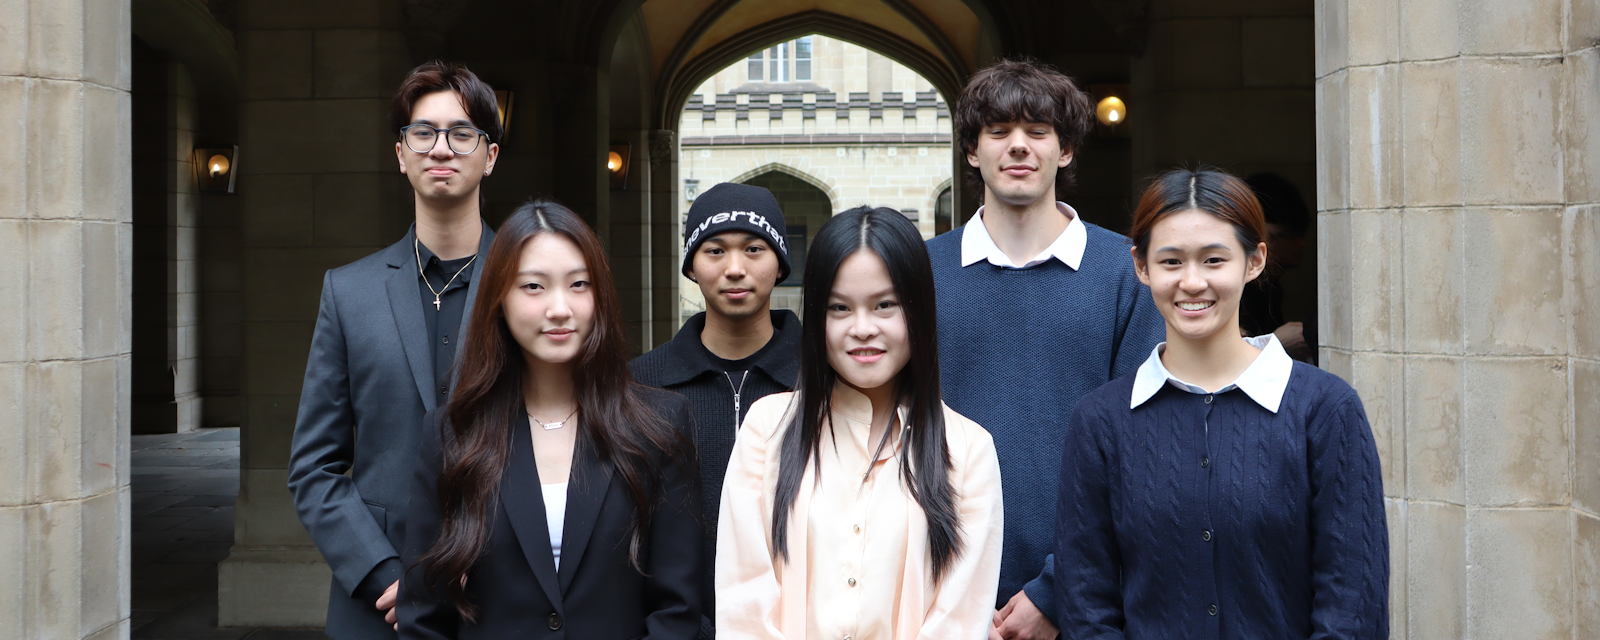
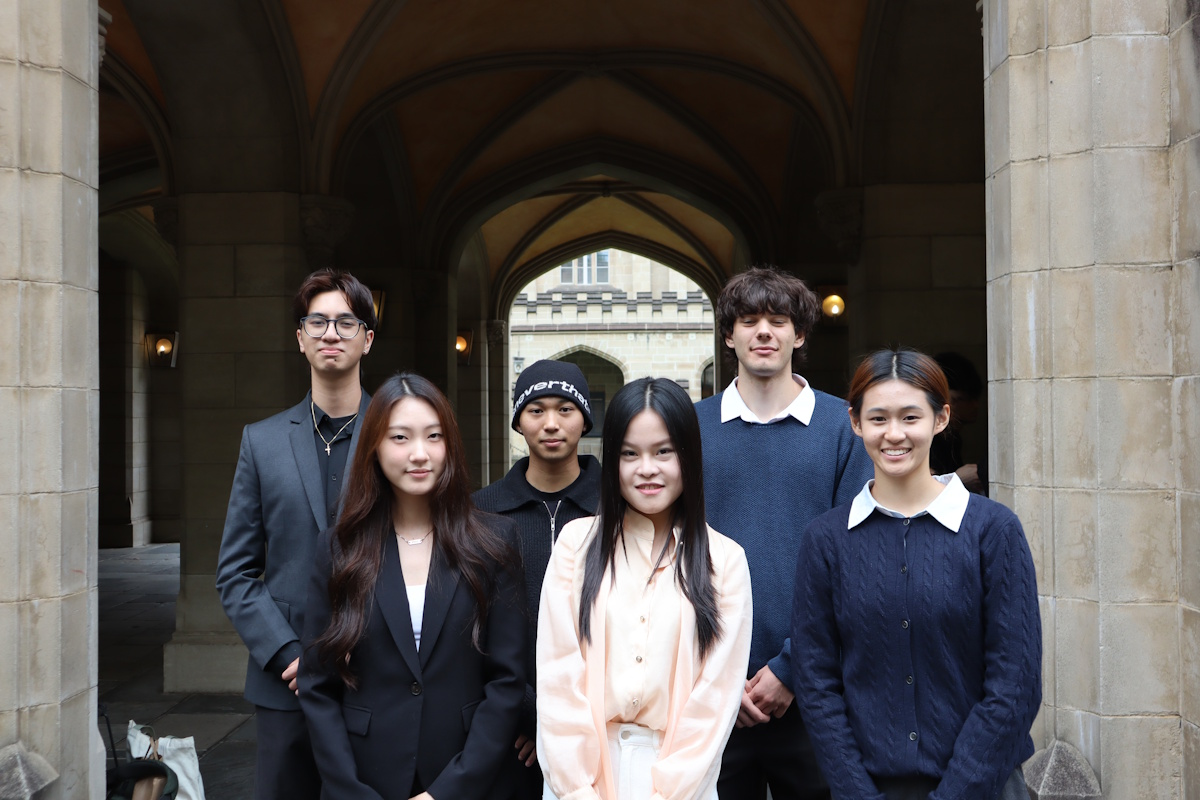
feat: product role changes, improve director logic, changed team photos to use responsive aspect ratios

diff --git a/app/components/committee/data/memberData2026.ts b/app/components/committee/data/memberData2026.ts
@@ -154,32 +154,32 @@ export const teams: Team[] = [
       {
         name: "Ishan Deshpande",
         image: "/people/2026/ishan-deshpande.png",
-        productTeam: "IT",
+        productTeam: "IT Products",
       },
       {
         name: "Nojan Hajjehforoush",
         image: "/people/2026/nojan-hajjehforoush.png",
-        productTeam: "IT",
+        productTeam: "IT Products",
       },
       {
         name: "Shreya Rao",
         image: "/people/2026/shreya-rao.png",
-        productTeam: "IT",
+        productTeam: "IT Products",
       },
       {
         name: "Thomas Chen",
         image: "/people/2026/thomas-chen.png",
-        productTeam: "IT",
+        productTeam: "IT Products",
       },
       {
         name: "Dhruv Verma",
         image: "/people/2026/dhruv-verma.png",
-        productTeam: "IT",
+        productTeam: "IT Products",
       },
       {
         name: "George Stergiopoulos",
         image: "/people/2026/george-stergiopoulos.png",
-        productTeam: "IT",
+        productTeam: "IT Products",
       },
       {
         name: "Ashton Lu",
@@ -195,71 +195,85 @@ export const teams: Team[] = [
         name: "Achal Jhawar",
         image: "/people/2026/achal-jhawar.png",
         productTeam: "C3",
+        productRole: "Developer",
       },
       {
         name: "Andre Phan",
         image: "/people/2026/andre-phan.png",
         productTeam: "C3",
+        productRole: "Developer",
       },
       {
         name: "Emma Xu",
         image: "/people/2026/emma-xu.png",
         productTeam: "C3",
+        productRole: "Developer",
       },
       {
         name: "John Ling",
         image: "/people/2026/john-ling.png",
         productTeam: "C3",
+        productRole: "Developer",
       },
       {
         name: "Michael Tran",
         image: "/people/2026/michael-tran.png",
         productTeam: "C3",
+        productRole: "Developer",
       },
       {
         name: "Nirav Pandey",
         image: "/people/2026/nirav-pandey.png",
         productTeam: "C3",
+        productRole: "Developer",
       },
       {
         name: "Nitesh Palai",
         image: "/people/2026/nitesh-palai.png",
         productTeam: "C3",
+        productRole: "Developer",
       },
       {
         name: "Peter Nguyen",
         image: "/people/2026/peter-nguyen.png",
         productTeam: "C3",
+        productRole: "Developer",
       },
       {
         name: "Rasheed Mohammed",
         image: "/people/2026/rasheed-mohammed.png",
         productTeam: "C3",
+        productRole: "Developer",
       },
       {
         name: "Shahira Jasmine",
         image: "/people/2026/shahira-jasmine.png",
         productTeam: "C3",
+        productRole: "Design",
       },
       {
         name: "Harguan Sehgal",
         image: "/people/2026/harguan-sehgal.png",
         productTeam: "C3",
+        productRole: "Marketing",
       },
       {
         name: "Keyur Gohel",
         image: "/people/2026/keyur-gohel.png",
         productTeam: "C3",
+        productRole: "Partnerships",
       },
       {
         name: "Sri Ram Vishwanath",
         image: "/people/2026/sri-ram-vishwanath.png",
         productTeam: "C3",
+        productRole: "Partnerships",
       },
       {
         name: "Vishesh Manik",
         image: "/people/2026/vishesh-manik.png",
         productTeam: "C3",
+        productRole: "Partnerships",
       },
     ],
   },

diff --git a/app/components/committee/TeamsSection.tsx b/app/components/committee/TeamsSection.tsx
@@ -7,8 +7,15 @@ import FeaturedCard from "./FeaturedCard";
 import MemberListCard from "./MemberListCard";
 import { GroupHeading } from "./GroupHeading";
 import { SectionHeading } from "./SectionHeading";
-import { Director, Team } from "./data/types";
+import { Director, ProductTeams, Team } from "./data/types";
 import { CardGroup } from "./ExecDirectorSection";
+
+const PRODUCT_TEAMS: string[] = [
+  "Products",
+  "AI",
+  "C3",
+  "IT Products",
+] satisfies (ProductTeams | "Products")[];
 
 function isDSCubedAI(team: string | null | undefined) {
   return team === "AI @ DSCubed" || team === "AI@DSCubed";
@@ -23,18 +30,7 @@ function TeamBlock({ team, directors }: { team: Team; directors: Director[] }) {
 
   // Find directors for this team
   const teamDirectors = isProduct
-    ? [
-        ...directors.filter(
-          (d) =>
-            d.team === "Products" ||
-            d.role?.toLowerCase().includes("product director"),
-        ),
-        ...directors.filter(
-          (d) =>
-            ["AI", "C3", "IT"].includes(d.team as string) ||
-            d.role?.toLowerCase().includes("lead"),
-        ),
-      ]
+    ? directors.filter((d) => d.team !== null && PRODUCT_TEAMS.includes(d.team))
     : directors
         .filter(
           (d) =>
@@ -59,7 +55,7 @@ function TeamBlock({ team, directors }: { team: Team; directors: Director[] }) {
         {
           name: "IT",
           role: "IT Officer",
-          members: team.members.filter((m) => m.productTeam === "IT"),
+          members: team.members.filter((m) => m.productTeam === "IT Products"),
         },
         {
           name: "AI",
@@ -81,14 +77,14 @@ function TeamBlock({ team, directors }: { team: Team; directors: Director[] }) {
           initial={{ opacity: 0, y: 30 }}
           animate={inView ? { opacity: 1, y: 0 } : {}}
           transition={{ duration: 0.5, ease: "easeOut" }}
-          className="w-full overflow-hidden rounded-lg aspect-5/2"
+          className="relative w-full overflow-hidden rounded-lg aspect-2/1 md:aspect-3/2"
         >
           <Image
             src={team.image}
             alt={`${teamName} Team`}
-            width={1600}
-            height={900}
-            className="w-full h-full object-cover"
+            fill
+            sizes="100vw"
+            className="object-cover object-bottom"
           />
         </motion.div>
       )}
@@ -112,7 +108,10 @@ function TeamBlock({ team, directors }: { team: Team; directors: Director[] }) {
             <MemberGroup
               key={subIndex}
               title={sub.name}
-              members={sub.members.map((m) => ({ ...m, role: sub.role }))}
+              members={sub.members.map((m) => ({
+                ...m,
+                role: m.productRole ? `C3 ${m.productRole}` : sub.role,
+              }))}
               inView={inView}
               delay={0.2 + subIndex * 0.1}
             />

diff --git a/app/components/committee/ExecDirectorSection.tsx b/app/components/committee/ExecDirectorSection.tsx
@@ -4,16 +4,18 @@ import { useRef } from "react";
 import { motion, useInView } from "framer-motion";
 import FeaturedCard from "@/app/components/committee/FeaturedCard";
 import { GroupHeading } from "./GroupHeading";
-import { Director, ExecMember } from "./data/types";
+import { Director, ExecMember, ProductTeams } from "./data/types";
+
+const PRODUCT_TEAMS: string[] = ["Products", "AI", "C3", "IT Products"] satisfies (ProductTeams | "Products")[];
+
+function isProductDirector(director: Director): boolean {
+  return director.team !== null && PRODUCT_TEAMS.includes(director.team);
+}
 
 function getRole(director: Director): string {
   if (director.role) {
     return director.role;
-  } else if (
-    director.team == "C3" ||
-    director.team == "AI" ||
-    director.team == "IT"
-  ) {
+  } else if (isProductDirector(director) && director.team !== "Products") {
     return `${director.team} Lead`;
   } else if (director.team == "AI @ DSCubed") {
     return "AI @ DSCubed";
@@ -66,8 +68,8 @@ export default function ExecDirectorSection({
   executives: ExecMember[];
   directors: Director[];
 }) {
-  const operationsDirectors = directors.slice(0, 6);
-  const productsDirectors = directors.slice(6);
+  const operationsDirectors = directors.filter((d) => !isProductDirector(d));
+  const productsDirectors = directors.filter((d) => isProductDirector(d));
 
   return (
     <div className="flex flex-col gap-8">
@@ -86,16 +88,18 @@ export default function ExecDirectorSection({
         }))}
         widthClass="w-[calc((100%-60px)/6)] lg:w-[calc((100%-24px)/3)] sm:w-[calc((100%-12px)/2)]"
       />
-      <CardGroup
-        title="PRODUCTS"
-        subtitle="DIRECTORS & LEADS"
-        items={productsDirectors.map((d) => ({
-          name: d.name,
-          role: getRole(d),
-          image: d.image,
-        }))}
-        widthClass="w-[calc((100%-60px)/6)] lg:w-[calc((100%-24px)/3)] sm:w-[calc((100%-12px)/2)]"
-      />
+      {productsDirectors.length > 0 && (
+        <CardGroup
+          title="PRODUCTS"
+          subtitle="DIRECTORS & LEADS"
+          items={productsDirectors.map((d) => ({
+            name: d.name,
+            role: getRole(d),
+            image: d.image,
+          }))}
+          widthClass="w-[calc((100%-60px)/6)] lg:w-[calc((100%-24px)/3)] sm:w-[calc((100%-12px)/2)]"
+        />
+      )}
     </div>
   );
 }

diff --git a/app/components/committee/CommitteePageContent.tsx b/app/components/committee/CommitteePageContent.tsx
@@ -53,7 +53,7 @@ export function CommitteePageContent({
           />
         </motion.div>
 
-        <div className="flex flex-col bg-background py-12 px-8 gap-6">
+        <div className="flex flex-col bg-background py-12 px-8 md:px-6 sm:px-4 gap-6">
           {/* Execs & Directors section heading + team photo */}
           <div className="flex flex-col gap-4 sm:gap-2">
             <SectionHeading>Execs & Directors</SectionHeading>
@@ -63,14 +63,15 @@ export function CommitteePageContent({
                 initial={{ opacity: 0, y: 40 }}
                 animate={execPhotoInView ? { opacity: 1, y: 0 } : {}}
                 transition={{ duration: 0.6, ease: "easeOut" }}
+                className="relative w-full overflow-hidden rounded-lg aspect-2/1 md:aspect-3/2"
               >
                 <Image
-                  className="w-full min-h-80 aspect-video object-cover rounded-xl brightness-[1.1] saturate-[1.2]"
                   src={execsPhoto}
                   alt={"Executive team photo"}
-                  width={1280}
+                  fill
+                  sizes="100vw"
                   loading="eager"
-                  height={720}
+                  className="object-cover object-center"
                 />
               </motion.div>
             )}

diff --git a/app/components/committee/data/types.ts b/app/components/committee/data/types.ts
@@ -13,6 +13,7 @@ export interface CommitteeMember {
   image?: string;
   filter?: string;
   productTeam?: ProductTeams; // Only for Product team members, indicates which sub-team they belong to
+  productRole?: C3Roles; // Only for C3 members, indicates their specific role
 }
 
 export interface ExecMember extends CommitteeMember {
@@ -43,4 +44,6 @@ export type Teams =
   | "AI @ DSCubed" // Merged into Product as of 2026
   | "Products"; // New team as of 2026, combining AI, C3 and IT
 
-export type ProductTeams = "AI" | "C3" | "IT";
+export type ProductTeams = "AI" | "C3" | "IT Products";
+
+export type C3Roles = "Partnerships" | "Marketing" | "Design" | "Developer";
